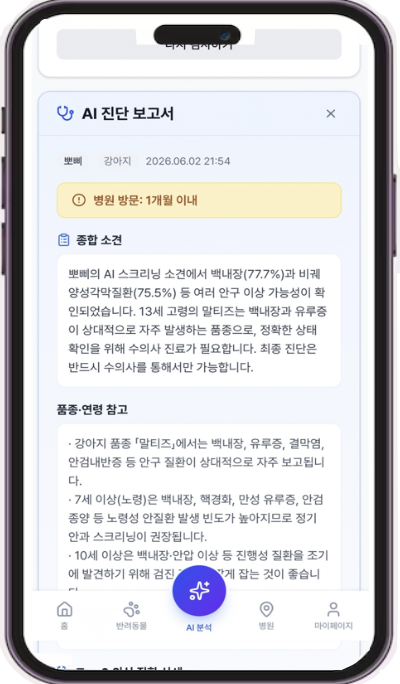
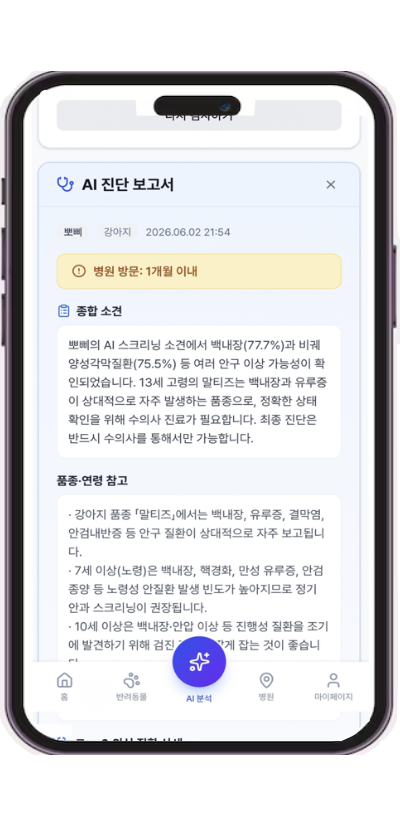
docs: 보호자 스크린샷 크기 통일
모바일 PWA 캡처 5장을 400×827 캔버스로 맞춰 README에서 동일 비율로 표시되도록 수정합니다.

diff --git a/README.md b/README.md
@@ -16,11 +16,11 @@
 ### 보호자 (모바일 PWA)
 
 <p align="center">
-  <img src="screenshots/main.png" alt="반려동물 등록 및 홈" width="180" />
-  <img src="screenshots/camera.png" alt="안구 사진 촬영·업로드" width="180" />
-  <img src="screenshots/result-top3.png" alt="Top-3 질환 스크리닝 결과" width="180" />
-  <img src="screenshots/result-report.png" alt="Claude AI 종합 소견 리포트" width="180" />
-  <img src="screenshots/map.png" alt="Kakao Map 동물병원 찾기" width="180" />
+  <img src="screenshots/main.png" alt="반려동물 등록 및 홈" width="200" height="414" />
+  <img src="screenshots/camera.png" alt="안구 사진 촬영·업로드" width="200" height="414" />
+  <img src="screenshots/result-top3.png" alt="Top-3 질환 스크리닝 결과" width="200" height="414" />
+  <img src="screenshots/result-report.png" alt="Claude AI 종합 소견 리포트" width="200" height="414" />
+  <img src="screenshots/map.png" alt="Kakao Map 동물병원 찾기" width="200" height="414" />
 </p>
 
 | 화면 | 설명 |
